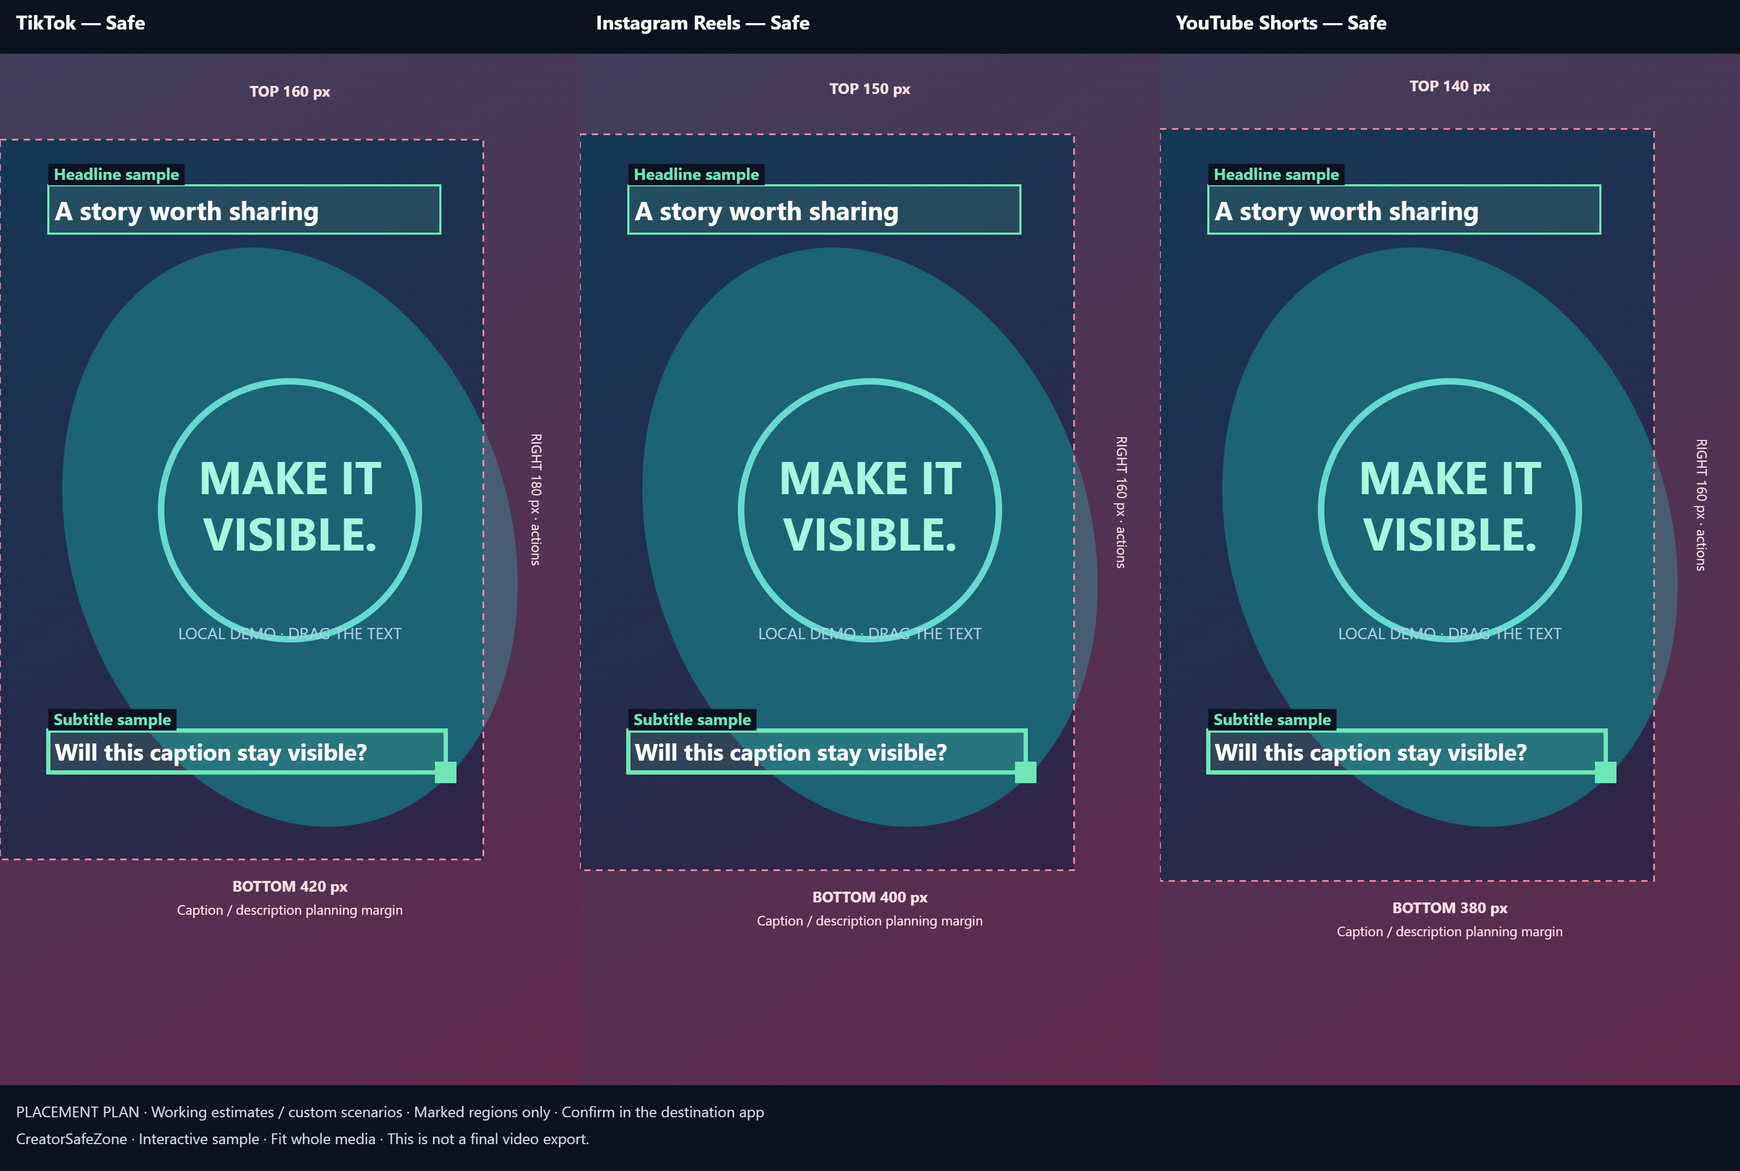
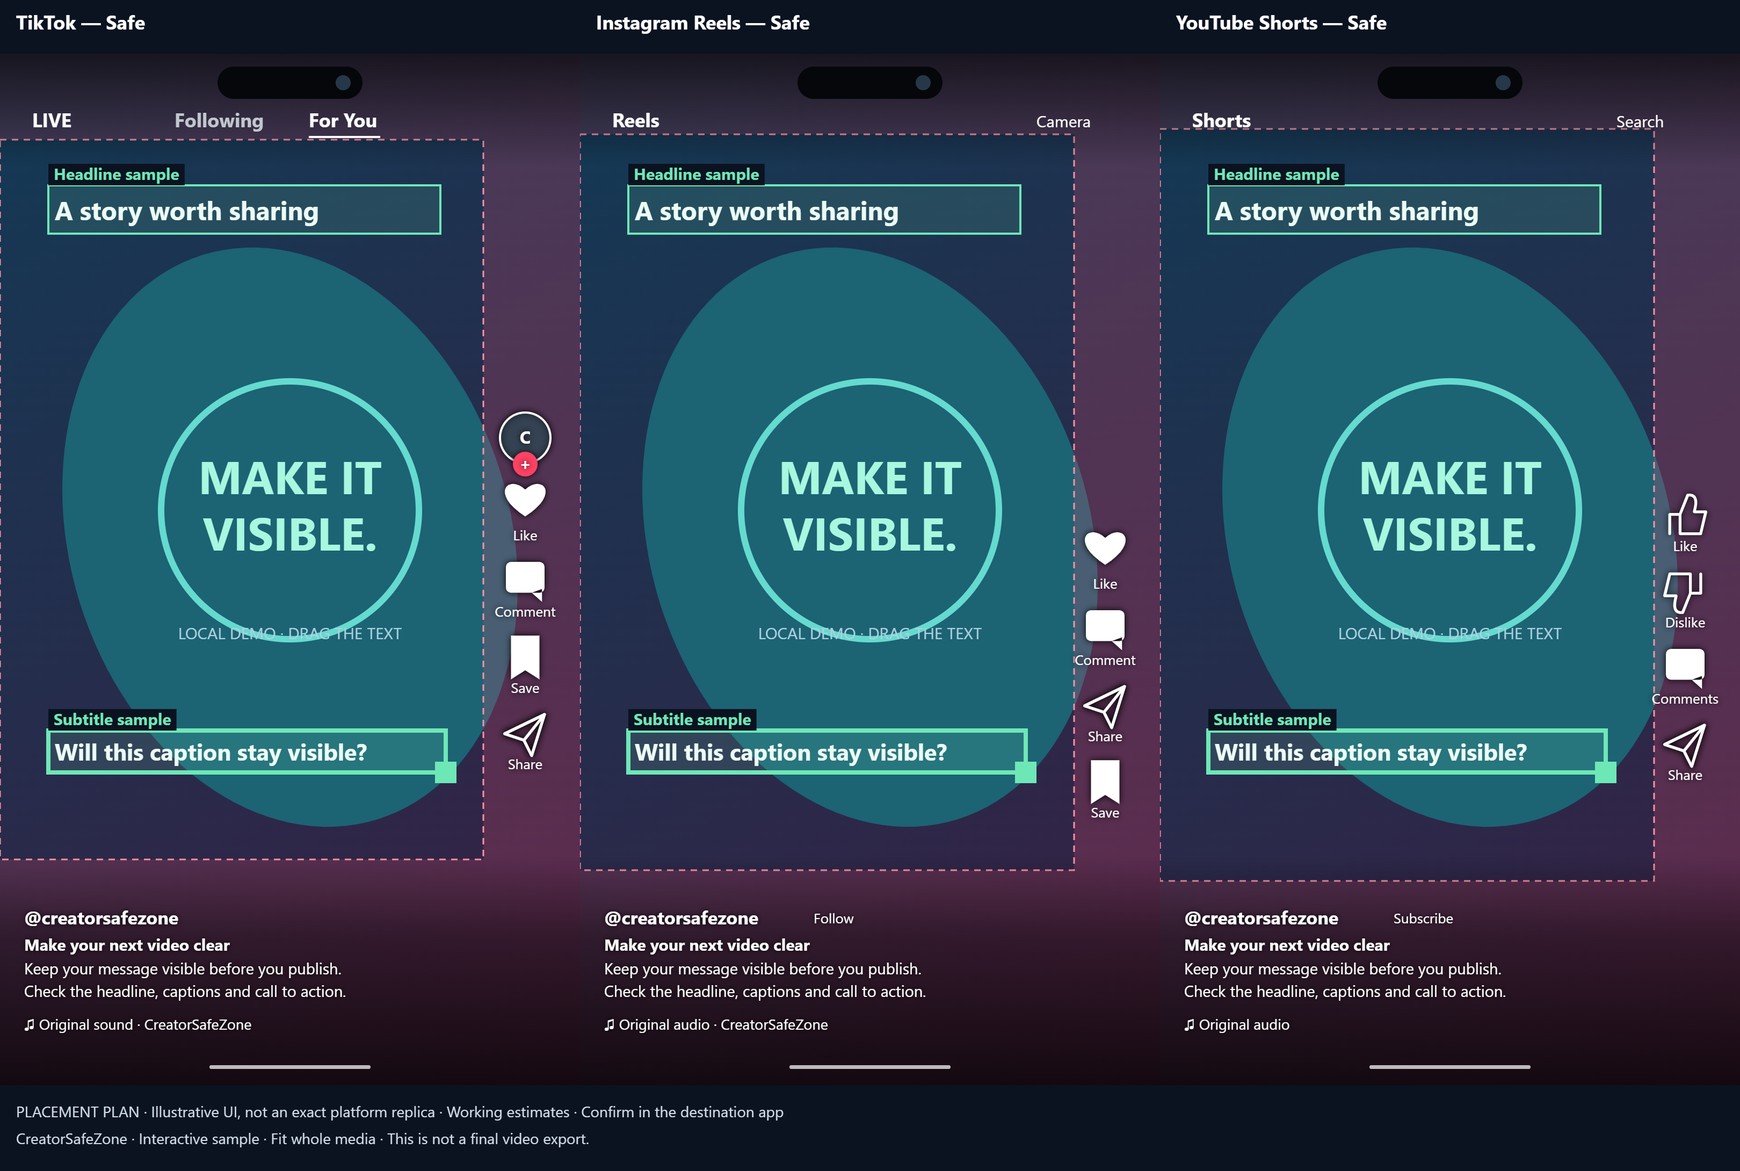
Restore illustrative platform controls in comparison previews

diff --git a/check-all-platforms.html b/check-all-platforms.html
@@ -25,7 +25,7 @@
           <button id="cancelLoad" type="button" hidden>Cancel loading</button><label for="fitMode">Frame composition</label><select id="fitMode"><option value="contain">Fit whole media · no crop</option><option value="cover">Fill 9:16 frame · center crop</option></select><p class="muted" id="compositionInfo">Preview coordinates use a 1080 × 1920 canvas.</p><div id="playback" hidden><div class="actions"><button type="button" id="playButton">Play</button><button type="button" id="backFrame">−0.1s</button><button type="button" id="forwardFrame">+0.1s</button><button type="button" id="muteButton">Unmute</button></div><label for="timeline">Video position <output id="timeOutput">0:00</output></label><input id="timeline" type="range" min="0" max="0" step="0.01" value="0"><p class="muted">Pause where you want to check. Boxes stay fixed as the video plays. Review other moments separately.</p></div></section>
         <section class="panel" id="region-controls"><h2><span>02</span> Mark an important region</h2><p>Add a box over text, a face, a logo or a CTA. Drag to position it and pull its corner to resize.</p><label for="elementType">Region type</label><select id="elementType"><option>Headline</option><option>Subtitle</option><option>Logo</option><option>CTA</option><option>Disclaimer</option><option>Face</option><option>Product</option></select><button id="addElement" type="button" class="primary" disabled>Add region</button><p class="muted">Manual placement only. We do not detect or edit the content in your media.</p><button id="undoButton" type="button" disabled>Undo last change</button><div id="elementEditor" hidden><label for="elementSelect">Selected region</label><select id="elementSelect"></select><label for="regionLabel">Region name</label><input id="regionLabel" type="text" maxlength="60"><p class="muted">Drag the box, resize its lower-right corner, or use arrow keys on a focused preview (Shift = 10 px).</p><div class="coordinates"><label>X<input id="coordX" type="number" min="0" max="1079" step="1"></label><label>Y<input id="coordY" type="number" min="0" max="1919" step="1"></label><label>Width<input id="coordWidth" type="number" min="1" max="1080" step="1"></label><label>Height<input id="coordHeight" type="number" min="1" max="1920" step="1"></label></div><p class="muted">Coordinates are pixels on the preview canvas. Use these fields for precise or keyboard placement.</p><div class="actions"><button id="fitAllButton" type="button">Find a shared placement</button><button id="removeElement" type="button">Remove region</button></div><p id="sharedAdvice" class="muted"></p></div></section>
       </aside>
-      <section class="comparison" aria-label="Cross-platform comparison"><div class="section-heading"><div><p class="eyebrow">LIVE COMPARISON</p><h2>One view. Three checks.</h2></div><label><input id="showMargins" type="checkbox" checked> Show margins</label></div><div class="view-controls"><label><input id="touchEdit" type="checkbox"> Touch dragging (off to scroll)</label><label><input id="showCommon" type="checkbox"> Show shared working area</label><label for="marginOpacity">Margin tint <input id="marginOpacity" type="range" min="5" max="65" value="22"></label></div><p class="muted">The default margins differ by 20–40 px. Each card shows its settings. Adjust a scenario to match your own publishing preview.</p><div id="previews" class="previews"></div><div class="legend"><span>Safe: 24+ px clearance</span><span>Warning: near a boundary</span><span>Covered: overlaps an estimate</span></div><section class="panel results"><div class="section-heading"><h2>Placement results</h2><div class="actions"><button id="imageReportButton" type="button" disabled>Save comparison PNG</button><button id="reportButton" type="button" disabled>Download text report</button></div></div><p id="summary" aria-live="polite">Choose media and mark a region to begin.</p><div id="results"></div><p class="muted">On your own media, only the marker moves: the original text or logo stays in the source. This is a placement plan, not a video editor. Apply changes in your editor, export again, then check the new file.</p></section></section>
+      <section class="comparison" aria-label="Cross-platform comparison"><div class="section-heading"><div><p class="eyebrow">LIVE COMPARISON</p><h2>One view. Three checks.</h2></div><label><input id="showMargins" type="checkbox" checked> Show margins</label></div><div class="view-controls"><label><input id="showPlatformUI" type="checkbox" checked> Show platform UI</label><label><input id="showRegions" type="checkbox" checked> Show marked regions</label><label for="captionLines">Caption length<select id="captionLines"><option value="1">Short · 1 line</option><option value="2" selected>Medium · 2 lines</option><option value="6">Long · 6 lines</option></select></label><label><input id="touchEdit" type="checkbox"> Touch dragging (off to scroll)</label><label><input id="showCommon" type="checkbox"> Show shared working area</label><label for="marginOpacity">Margin tint <input id="marginOpacity" type="range" min="5" max="65" value="22"></label></div><p class="muted">The default margins differ by 20–40 px. Each card shows its settings. Adjust a scenario to match your own publishing preview.</p><p class="muted ui-notice">Illustrative platform preview—actual layout varies. Channel details and icons are examples. Caption length changes the visual preview only; numerical checks use the margins shown on each card.</p><div id="previews" class="previews"></div><div class="legend"><span>Safe: 24+ px clearance</span><span>Warning: near a boundary</span><span>Covered: overlaps an estimate</span></div><section class="panel results"><div class="section-heading"><h2>Placement results</h2><div class="actions"><button id="imageReportButton" type="button" disabled>Save comparison PNG</button><button id="reportButton" type="button" disabled>Download text report</button></div></div><p id="summary" aria-live="polite">Choose media and mark a region to begin.</p><div id="results"></div><p class="muted">On your own media, only the marker moves: the original text or logo stays in the source. This is a placement plan, not a video editor. Apply changes in your editor, export again, then check the new file.</p></section></section>
     </div>
     <section class="workflow panel"><p class="eyebrow">CHECK → ADJUST → CONFIRM</p><h2>Turn a warning into a better placement</h2><ol><li><strong>Mark what matters.</strong> Add boxes over your headline, subtitles, logo or CTA. Check representative frames where captions or graphics move.</li><li><strong>Compare all three results.</strong> A suggested move applies to one platform. After moving a box, review the other platforms again.</li><li><strong>Apply the change in your editor.</strong> Use the suggested direction and distance as a guide on a 1080 × 1920 canvas. Scale distances for other project sizes.</li><li><strong>Check the actual draft.</strong> Open the destination app's publishing preview. Captions, device settings and interface changes can alter what is covered.</li></ol><p>Need an overlay for your editing workflow? Use the <a href="/capcut-safe-zone-template">CapCut overlay guide</a> or the <a href="/">homepage PNG export</a>.</p><nav aria-label="Platform guides"><a href="/tiktok-safe-zone">TikTok guide</a><a href="/instagram-reels-safe-zone">Reels guide</a><a href="/youtube-shorts-safe-zone">Shorts guide</a><a href="/instagram-grid-crop-previewer">Crop scenarios</a></nav></section>
   </main><footer><a href="/about">About</a><a href="/privacy-policy">Privacy</a><a href="/editorial-policy">Editorial policy</a><span>Local processing. No signup.</span></footer>

diff --git a/qa-app.js b/qa-app.js
@@ -1,3 +1,4 @@
+import {drawPlatformUI} from './qa-platform-ui.js';
 import {CANVAS, buildSurfaces, assess, summarize, validRect, makeReport, sharedSurface, boundsFromMargins, videoUrl} from './qa-engine.js';
 
 const $ = id => document.getElementById(id);
@@ -87,21 +88,28 @@ function draw() {
       ctx.fillStyle = '#92a5bc'; ctx.font = '40px system-ui'; ctx.textAlign = 'center';
       ctx.fillText('Your creative here',width/2,height/2); ctx.textAlign = 'left';
     }
+    for (const element of elements) {
+      if(sample){ctx.save();ctx.beginPath();ctx.rect(element.x,element.y,element.width,element.height);ctx.clip();ctx.fillStyle='#ffffff';ctx.font=`bold ${Math.max(12,Math.min(48,element.height*0.55))}px system-ui`;ctx.fillText(element.text || element.label,element.x+12,element.y+element.height*0.72,Math.max(1,element.width-24));ctx.restore();}
+    }
     const b = surface.bounds;
     if ($('showMargins').checked) {
       ctx.fillStyle = `rgba(231,76,108,${Number($('marginOpacity').value)/100})`;
       ctx.fillRect(0,0,width,b.top); ctx.fillRect(b.right,b.top,width-b.right,b.bottom-b.top); ctx.fillRect(0,b.bottom,width,height-b.bottom);ctx.fillRect(0,b.top,b.left,b.bottom-b.top);
       ctx.strokeStyle = '#f993a6'; ctx.lineWidth = 3; ctx.setLineDash([12,10]); ctx.strokeRect(b.left,b.top,b.right-b.left,b.bottom-b.top);ctx.setLineDash([]);
+      if (!$('showPlatformUI').checked) {
       ctx.fillStyle='#ffe0e5';ctx.font='bold 28px system-ui';ctx.textAlign='center';if(b.top>35)ctx.fillText(`TOP ${b.top} px`,width/2,Math.max(32,b.top/2));
       if(height-b.bottom>70){ctx.fillText(`BOTTOM ${height-b.bottom} px`,width/2,b.bottom+60);ctx.font='25px system-ui';ctx.fillText('Caption / description planning margin',width/2,b.bottom+103);}
       ctx.save();ctx.translate(b.right+(width-b.right)/2,(b.top+b.bottom)/2);ctx.rotate(Math.PI/2);if(width-b.right>35)ctx.fillText(`RIGHT ${width-b.right} px · actions`,0,0);ctx.restore();ctx.textAlign='left';
+      }
     }
     if($('showCommon').checked){const common=sharedSurface(surfaces).bounds;ctx.fillStyle='#64edd01c';ctx.fillRect(common.left,common.top,common.right-common.left,common.bottom-common.top);ctx.strokeStyle='#73f7d5';ctx.lineWidth=6;ctx.strokeRect(common.left,common.top,common.right-common.left,common.bottom-common.top);}
+    if ($('showPlatformUI').checked) drawPlatformUI(ctx,surface.name,$('captionLines').value);
     for (const element of elements) {
+      if (!$('showRegions').checked) continue;
       const result = assess(element,surface); const color = colors[result.status];
       ctx.fillStyle = color + '22'; ctx.fillRect(element.x,element.y,element.width,element.height);
       ctx.strokeStyle = color; ctx.lineWidth = element.id === selected ? 8 : 4; ctx.strokeRect(element.x,element.y,element.width,element.height);
-      if(sample){ctx.save();ctx.beginPath();ctx.rect(element.x,element.y,element.width,element.height);ctx.clip();ctx.fillStyle='#ffffff';ctx.font=`bold ${Math.max(12,Math.min(48,element.height*0.55))}px system-ui`;ctx.fillText(element.text || element.label,element.x+12,element.y+element.height*0.72,Math.max(1,element.width-24));ctx.restore();}
+
       if(element.id===selected){ctx.fillStyle=color;ctx.fillRect(element.x+element.width-20,element.y+element.height-20,40,40);}
       ctx.font = 'bold 30px system-ui';
       const labelWidth = Math.min(width,ctx.measureText(element.label).width + 20);
@@ -137,6 +145,7 @@ function installPreviews() {
     article.append(title,values,canvas,badge,details,evidence);$('previews').append(article);previews.push({surface,canvas,badge});
     const point = event => { const box = canvas.getBoundingClientRect();return {x:(event.clientX-box.left)/box.width*CANVAS.width,y:(event.clientY-box.top)/box.height*CANVAS.height}; };
     canvas.addEventListener('pointerdown',event => {
+      if(!$('showRegions').checked)return;
       if(event.pointerType==='touch'&&!$('touchEdit').checked)return;
       const p = point(event);const handle=55;const active=selectedElement();const resize=active&&Math.abs(p.x-active.x-active.width)<handle&&Math.abs(p.y-active.y-active.height)<handle;
       const element = resize?active:[...elements].reverse().find(e => p.x >= e.x && p.x <= e.x+e.width && p.y >= e.y && p.y <= e.y+e.height);
@@ -232,6 +241,9 @@ for (const key of ['x','y','width','height']) $('coord' + key[0].toUpperCase() +
   remember();Object.assign(element,candidate);refresh();status('Placement updated across all three platforms.');
 });
 $('showMargins').addEventListener('change',draw);
+$('showPlatformUI').addEventListener('change',draw);
+$('showRegions').addEventListener('change',draw);
+$('captionLines').addEventListener('change',draw);
 $('touchEdit').addEventListener('change',()=>document.body.classList.toggle('touch-edit',$('touchEdit').checked));
 $('showCommon').addEventListener('change',draw);
 $('marginOpacity').addEventListener('input',draw);
@@ -255,7 +267,7 @@ $('imageReportButton').addEventListener('click',()=>{
   if(!media)return;if(media instanceof HTMLVideoElement)media.pause();draw();
   const output=document.createElement('canvas');output.width=3240;output.height=2180;const ctx=output.getContext('2d');ctx.fillStyle='#0b1220';ctx.fillRect(0,0,3240,2180);
   previews.forEach(({canvas,surface},i)=>{ctx.fillStyle='#ffffff';ctx.font='bold 36px system-ui';ctx.fillText(surface.name+' — '+summarize(elements,surface),i*1080+30,55);ctx.drawImage(canvas,i*1080,100);});
-  ctx.fillStyle='#d0dcea';ctx.font='28px system-ui';ctx.fillText('PLACEMENT PLAN · Working estimates / custom scenarios · Marked regions only · Confirm in the destination app',30,2080);ctx.fillText('CreatorSafeZone · '+(sample?'Interactive sample':media instanceof HTMLVideoElement?'Frame '+media.currentTime.toFixed(2)+'s':'Image')+' · '+(fit==='cover'?'Center crop':'Fit whole media')+' · This is not a final video export.',30,2130);
+  ctx.fillStyle='#d0dcea';ctx.font='28px system-ui';ctx.fillText('PLACEMENT PLAN · Illustrative UI, not an exact platform replica · Working estimates · Confirm in the destination app',30,2080);ctx.fillText('CreatorSafeZone · '+(sample?'Interactive sample':media instanceof HTMLVideoElement?'Frame '+media.currentTime.toFixed(2)+'s':'Image')+' · '+(fit==='cover'?'Center crop':'Fit whole media')+' · This is not a final video export.',30,2130);
   try{output.toBlob(blob=>downloadBlob(blob,'creatorsafezone-comparison.png'),'image/png');status('Comparison image prepared. It includes the displayed media and markers.');}catch{status('This video host does not allow image export. Choose the saved file instead.');}
 });
 

diff --git a/qa-platform-ui.js b/qa-platform-ui.js
@@ -1,0 +1,51 @@
+// Illustrative UI only. These coordinates are not platform measurements.
+const captions = [
+  'Keep your message visible before you publish.',
+  'Check the headline, captions and call to action.',
+  'A little space can make your layout clearer.',
+  'Preview each platform and review your draft.',
+  'Your next story starts with a clear message.',
+  '#creators #videotips #behindthescenes'
+];
+
+function icon(ctx, kind, x, y) {
+  ctx.save();ctx.translate(x,y);ctx.scale(2.4,2.4);
+  ctx.lineWidth=2.2;ctx.lineJoin='round';ctx.lineCap='round';ctx.strokeStyle='#fff';ctx.fillStyle='#fff';
+  ctx.beginPath();
+  if(kind==='heart') {ctx.moveTo(0,9);ctx.bezierCurveTo(-28,-9,-13,-24,0,-12);ctx.bezierCurveTo(13,-24,28,-9,0,9);ctx.fill();}
+  if(kind==='comment') {ctx.roundRect(-15,-15,30,24,4);ctx.moveTo(5,9);ctx.lineTo(13,16);ctx.lineTo(13,6);ctx.fill();}
+  if(kind==='share') {ctx.moveTo(-16,0);ctx.lineTo(15,-15);ctx.lineTo(5,17);ctx.lineTo(-1,5);ctx.closePath();ctx.stroke();ctx.moveTo(-1,5);ctx.lineTo(15,-15);ctx.stroke();}
+  if(kind==='bookmark') {ctx.moveTo(-11,-17);ctx.lineTo(11,-17);ctx.lineTo(11,17);ctx.lineTo(0,10);ctx.lineTo(-11,17);ctx.closePath();ctx.fill();}
+  if(kind==='like'||kind==='dislike') {if(kind==='dislike')ctx.rotate(Math.PI);ctx.moveTo(-12,-1);ctx.lineTo(-4,-1);ctx.lineTo(2,-16);ctx.quadraticCurveTo(11,-17,7,-3);ctx.lineTo(16,-3);ctx.lineTo(12,14);ctx.lineTo(-4,14);ctx.lineTo(-4,-1);ctx.moveTo(-12,-1);ctx.lineTo(-12,14);ctx.stroke();}
+  ctx.restore();
+}
+
+export function drawPlatformUI(ctx, platform, captionLines=2) {
+  const lines=Math.max(1,Math.min(6,Math.round(Number(captionLines)||2)));
+  const tiktok=platform==='TikTok', reels=platform==='Instagram Reels';
+  ctx.save();ctx.fillStyle='#fff';ctx.strokeStyle='#fff';ctx.textBaseline='alphabetic';ctx.textAlign='left';
+  // Shadow and gradients keep the sample UI readable over arbitrary creative.
+  const top=ctx.createLinearGradient(0,0,0,210);top.addColorStop(0,'#000000a6');top.addColorStop(1,'#00000000');ctx.fillStyle=top;ctx.fillRect(0,0,1080,210);
+  ctx.fillStyle='#05070a';ctx.beginPath();ctx.roundRect(405,24,270,60,30);ctx.fill();
+  ctx.fillStyle='#263749';ctx.beginPath();ctx.arc(639,54,14,0,Math.PI*2);ctx.fill();
+  ctx.fillStyle='#fff';ctx.font='bold 36px system-ui';
+  if(tiktok){ctx.fillText('LIVE',60,137);ctx.fillStyle='#c1c7cf';ctx.fillText('Following',325,137);ctx.fillStyle='#fff';ctx.fillText('For You',575,137);ctx.fillRect(575,153,133,4);}
+  else{ctx.fillText(reels?'Reels':'Shorts',60,137);ctx.font='30px system-ui';ctx.fillText(reels?'Camera':'Search',850,137);}
+  const railX=978, firstY=tiktok?840:reels?930:860;
+  const actions=tiktok?[['heart','Like'],['comment','Comment'],['bookmark','Save'],['share','Share']]:reels?[['heart','Like'],['comment','Comment'],['share','Share'],['bookmark','Save']]:[['like','Like'],['dislike','Dislike'],['comment','Comments'],['share','Share']];
+  ctx.shadowColor='#000';ctx.shadowBlur=12;
+  if(tiktok){ctx.fillStyle='#344253';ctx.beginPath();ctx.arc(railX,firstY-125,47,0,Math.PI*2);ctx.fill();ctx.lineWidth=4;ctx.stroke();ctx.fillStyle='#fff';ctx.font='bold 32px system-ui';ctx.textAlign='center';ctx.fillText('C',railX,firstY-114);ctx.fillStyle='#ff4264';ctx.beginPath();ctx.arc(railX,firstY-76,23,0,Math.PI*2);ctx.fill();ctx.fillStyle='#fff';ctx.font='bold 30px system-ui';ctx.fillText('+',railX,firstY-66);}
+  actions.forEach(([kind,label],i)=>{const y=firstY+i*142;icon(ctx,kind,railX,y);ctx.textAlign='center';ctx.fillStyle='#fff';ctx.font='26px system-ui';ctx.fillText(label,railX,y+66);});
+  ctx.shadowBlur=0;
+  const panelTop=1920-85-(170+lines*42);
+  const shade=ctx.createLinearGradient(0,panelTop-90,0,1920);shade.addColorStop(0,'#00000000');shade.addColorStop(0.35,'#00000070');shade.addColorStop(1,'#000000c9');ctx.fillStyle=shade;ctx.fillRect(0,panelTop-90,1080,2010-panelTop);
+  // Channel, title, description and audio are visual examples, never account data.
+  ctx.shadowColor='#000';ctx.shadowBlur=10;ctx.textAlign='left';ctx.fillStyle='#fff';ctx.font='bold 34px system-ui';ctx.fillText('@creatorsafezone',45,panelTop+40);
+  ctx.font='26px system-ui';ctx.fillText(reels?'Follow':tiktok?'':'Subscribe',435,panelTop+38);
+  ctx.font='bold 30px system-ui';ctx.fillText('Make your next video clear',45,panelTop+89);
+  ctx.font='29px system-ui';
+  for(let i=0;i<lines;i++)ctx.fillText(captions[i],45,panelTop+133+i*42,805);
+  ctx.font='27px system-ui';ctx.fillText(reels?'♫ Original audio · CreatorSafeZone':tiktok?'♫ Original sound · CreatorSafeZone':'♫ Original audio',45,1817);
+  ctx.shadowBlur=0;ctx.fillStyle='#ffffffb8';ctx.beginPath();ctx.roundRect(390,1883,300,7,4);ctx.fill();
+  ctx.restore();
+}

diff --git a/qa.css b/qa.css
@@ -4,3 +4,5 @@
 .preview canvas{touch-action:pan-x pan-y}.touch-edit .preview canvas{touch-action:none}
 
 main{padding-top:24px}.intro{display:grid;grid-template-columns:1fr 1fr;gap:10px 35px;max-width:none;align-items:center}.intro .eyebrow{grid-column:1/-1;margin:0}.intro h1{font-size:2.2rem;margin:0}.intro>p:last-child{margin:0;font-size:.9rem}.notice{padding:8px 12px;margin:12px 0}#appStatus{margin:8px 0 14px}.quick-actions{display:none}#media-controls,#region-controls{scroll-margin-top:75px}@media(max-width:780px){.intro{display:block}.intro h1{font-size:1.8rem;margin:8px 0}.intro>p:last-child{font-size:.82rem}.workspace{display:flex;flex-direction:column}.controls{display:contents}.comparison{order:0;width:100%}.controls>.panel{order:1;width:100%}.quick-actions{display:flex;gap:16px;flex-wrap:wrap;font-size:.83rem;margin:14px 0}.comparison .section-heading{margin-top:0}.comparison>.muted{margin:4px 0 12px}.view-controls{gap:10px;padding:4px 0}}
+
+.view-controls select{width:auto;font-size:.75rem;margin:0 0 0 8px;padding:5px}.ui-notice{border-left:2px solid #58758b;padding-left:10px}.preview canvas{border-radius:28px}

diff --git a/docs/PHASE-2-PREVIEW-REVISION.md b/docs/PHASE-2-PREVIEW-REVISION.md
@@ -1,5 +1,13 @@
 # Interactive preview revision — 2026-09-21
 
+Current review preview (platform UI restored): https://e2b66903-creatorsafezone.z-iqbal456.workers.dev/check-all-platforms — version e2b66903-8667-455c-bdc8-f6781af4d6da. This supersedes the versions listed in the earlier revision history below.
+
+## Restored platform interface
+
+User approved restoring illustrative platform controls. TikTok, Reels and Shorts now display representative navigation, action rails, channel name, title, description and audio. Platform UI is on by default, with separate toggles for platform UI, marked regions and margin shading. Caption length offers 1, 2 or 6 lines; its effect is visual only and is explicitly distinguished from numerical margin checks. The same interface is included in comparison PNG exports. No platform measurement claim or registry value changed.
+
+Validation: 26 unit/Worker tests and structural validation pass; editorial audit retains five existing advisory findings. Full browser regression passes locally and on the uploaded version, including pixel comparisons for UI visibility and caption length, independent region visibility, media/playback, coordinates, dragging, resizing, URL fixtures and exports. Exported comparison image inspected. Dry run and all 13 page/asset smoke checks plus four legacy redirects pass. Production traffic unchanged.
+
 User feedback: margins look the same, no initial sample, improve practical flexibility and add video URL input.
 
 ## Findings and changes
